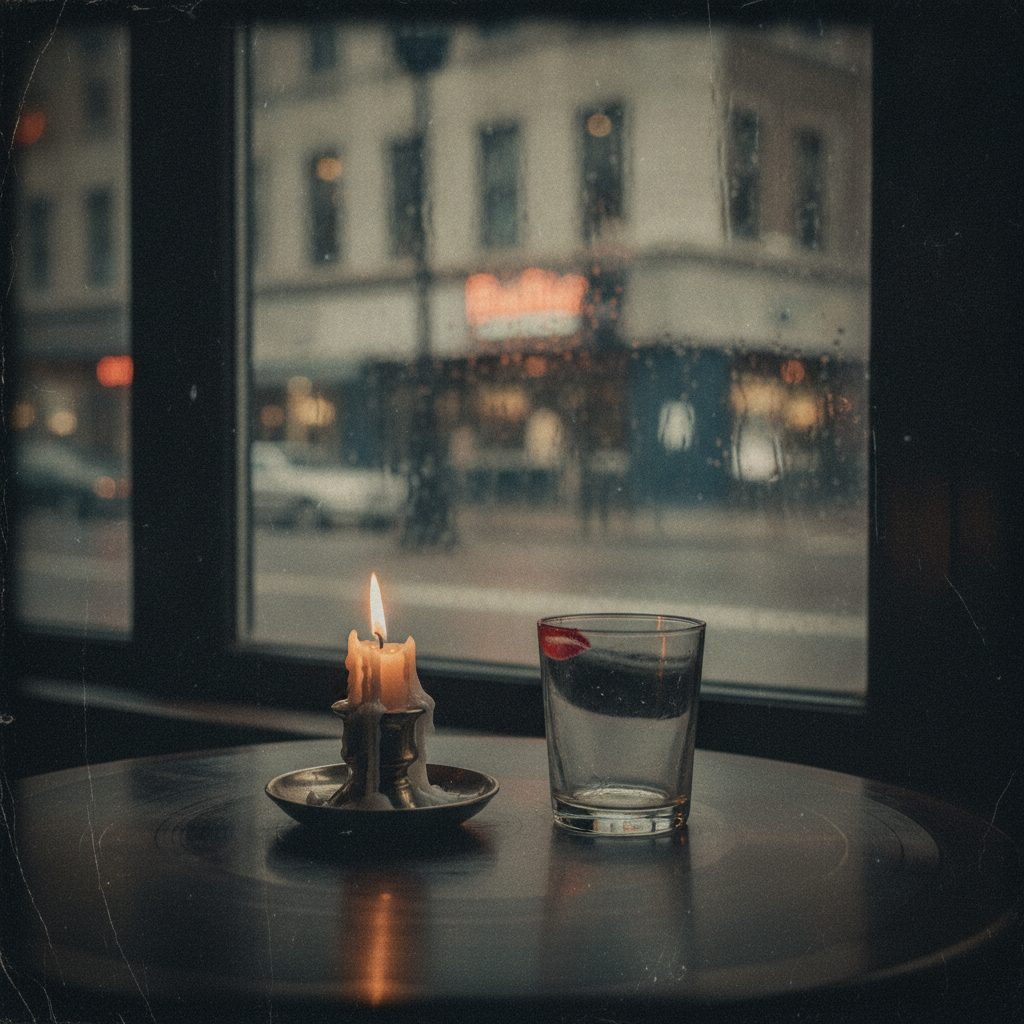
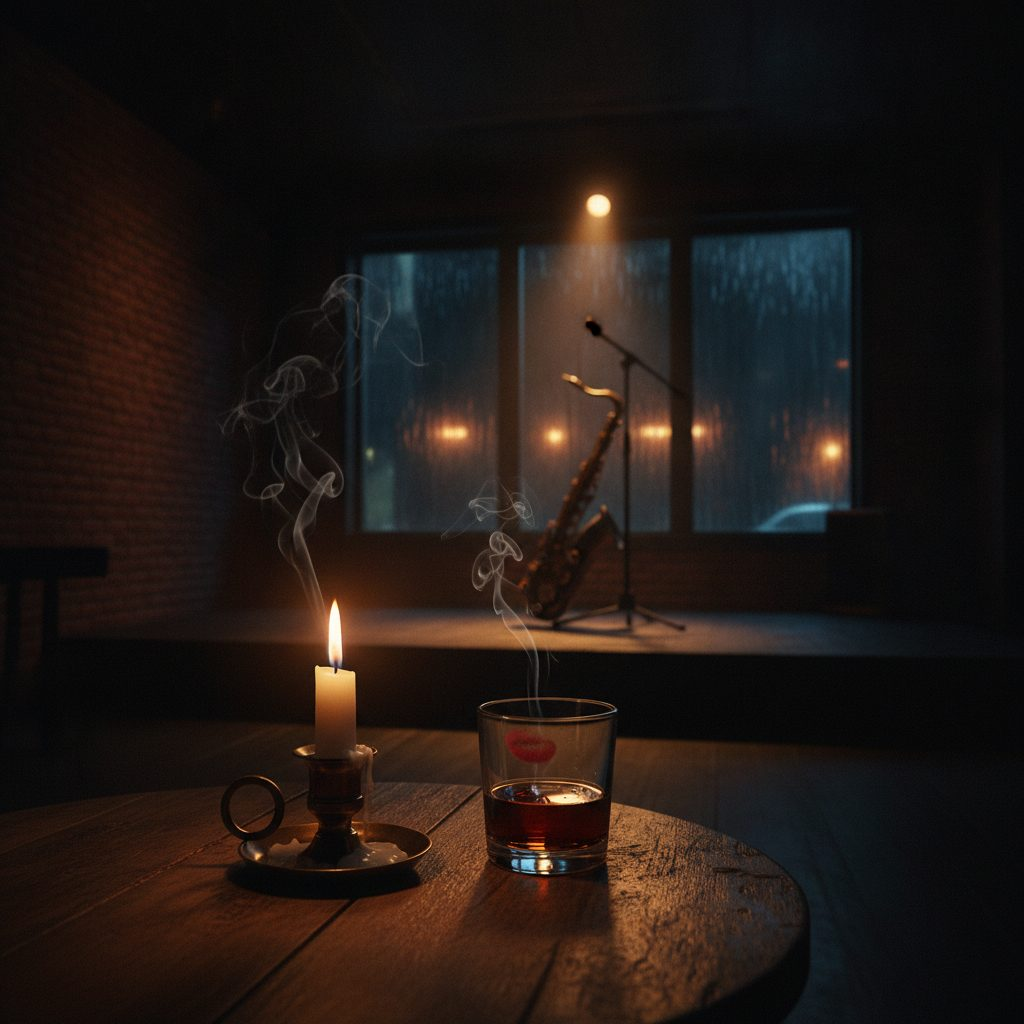
Half Past Blue: a jazz club at night instead of grey paper
The AI set this song in black ink on cream paper, which is right for a
lead sheet and wrong over a dark picture: the paper overlay turned the
photograph grey and the look was fine but flat.

- New picture, from the app's "jazz" background style: a saxophone on an
  empty stage, a candle, a glass, rain on the windows.
- The colours are turned to night by hand - midnight blue page, cream
  words, amber chords - and the overlay eased to 0.4 so the picture
  shows. The fonts and the jazz chord notation are still the AI's.
- Hand changes are now listed per song under `adjust` in
  exampleSources.ts, so it stays plain what the AI did and what it
  didn't. The page copy claims the fonts and the pictures for the AI and
  no longer the colours.
- A retaken card screenshot gets a new filename through `rev`; images
  are cached by address and the old name kept showing the old picture.

diff --git a/apps/chordsheetmaker/src/data/exampleSongs.ts b/apps/chordsheetmaker/src/data/exampleSongs.ts
@@ -4,7 +4,7 @@
 // exampleStyles.json is what /api/ai/style returned for each song, untouched;
 // the picture beside it in /public/examples came from /api/ai/background, in
 // the background style named in the source. Nothing was drawn or picked by
-// hand except that style and, where noted, the overlay. To give a song a new
+// hand except that style and whatever a song lists under `adjust`. To give a song a new
 // look, ask the same two routes again and save what comes back.
 
 import type { SongLine } from "@/types/song";
@@ -15,7 +15,7 @@ import { EXAMPLE_SOURCES, type ExampleSource } from "./exampleSources";
 export { EXAMPLE_SLUGS } from "./exampleSources";
 import styles from "./exampleStyles.json";
 
-export interface ExampleSong extends Omit<ExampleSource, "text" | "bgStyle" | "overlayOpacity"> {
+export interface ExampleSong extends Omit<ExampleSource, "text" | "bgStyle" | "adjust" | "rev"> {
   href: string;
   /** Screenshot of the page at `href`, for the card. */
   img: string;
@@ -36,18 +36,32 @@ function toLines(slug: string, text: string): SongLine[] {
   return extractInlineChords(lines);
 }
 
-export const EXAMPLE_SONGS: ExampleSong[] = EXAMPLE_SOURCES.map(({ text, bgStyle: _bgStyle, overlayOpacity, ...song }) => ({
-  ...song,
-  href: `/examples/${song.slug}`,
-  img: `/examples/${song.slug}.jpg`,
-  lines: toLines(song.slug, text),
-  style: {
-    ...(styles as unknown as Record<string, SongStyle>)[song.slug],
-    backgroundImage: `/examples/${song.slug}-bg.jpg`,
+const PARTS = ["title", "artist", "lyrics", "chords", "section"] as const;
+
+function lookOf(slug: string, adjust: ExampleSource["adjust"]): SongStyle {
+  const ai = (styles as unknown as Record<string, SongStyle>)[slug];
+  const style: SongStyle = {
+    ...ai,
+    backgroundImage: `/examples/${slug}-bg.jpg`,
     backgroundSource: "ai",
     aiStyled: true,
-    overlayOpacity: overlayOpacity ?? 0.5,
-  },
+    overlayOpacity: adjust?.overlayOpacity ?? 0.5,
+  };
+  if (adjust?.background) style.background = adjust.background;
+  for (const part of PARTS) {
+    const color = adjust?.colors?.[part];
+    const base = style[part];
+    if (color && base) style[part] = { ...base, color };
+  }
+  return style;
+}
+
+export const EXAMPLE_SONGS: ExampleSong[] = EXAMPLE_SOURCES.map(({ text, bgStyle: _bgStyle, adjust, rev, ...song }) => ({
+  ...song,
+  href: `/examples/${song.slug}`,
+  img: `/examples/${song.slug}${rev ? `-${rev}` : ""}.jpg`,
+  lines: toLines(song.slug, text),
+  style: lookOf(song.slug, adjust),
 }));
 
 export function exampleBySlug(slug: string): ExampleSong | undefined {

diff --git a/apps/chordsheetmaker/src/data/exampleSources.ts b/apps/chordsheetmaker/src/data/exampleSources.ts
@@ -17,8 +17,23 @@ export interface ExampleSource {
   vibe: string;
   /** Which of the style panel's background styles the picture was made with. */
   bgStyle: string;
-  /** How much of the page colour is laid over the picture, where the default 0.5 left the words hard to read. */
-  overlayOpacity?: number;
+  /**
+   * Add one each time the card's screenshot is retaken: the file is then
+   * <slug>-<rev>.jpg. Images are cached by address, so a new picture under
+   * the old name keeps showing the old one.
+   */
+  rev?: number;
+  /**
+   * What was changed by hand after the AI's look, the way "Adjust" does in
+   * the editor. Leave it out and the song is exactly what the AI returned.
+   */
+  adjust?: {
+    /** Page colour, which is also what is laid over the picture. */
+    background?: string;
+    /** How much of the page colour covers the picture (default 0.5). */
+    overlayOpacity?: number;
+    colors?: Partial<Record<"title" | "artist" | "lyrics" | "chords" | "section", string>>;
+  };
   text: string;
 }
 
@@ -129,9 +144,17 @@ export const EXAMPLE_SOURCES: ExampleSource[] = [
     slug: "half-past-blue",
     title: "Half Past Blue",
     artist: "Jazz ballad · original",
-    vibe: "Rainy bar window, lead-sheet chords",
-    bgStyle: "vintage",
-    overlayOpacity: 0.7,
+    vibe: "Late-night jazz club, lead-sheet chords",
+    bgStyle: "jazz",
+    rev: 2,
+    // The AI set this one in black ink on cream paper, which over a dark
+    // picture went grey. The fonts, the jazz chords and the picture are its
+    // own; the colours were turned to night by hand.
+    adjust: {
+      background: "#0b1424",
+      overlayOpacity: 0.4,
+      colors: { title: "#f6e7c4", artist: "#9fb4cf", lyrics: "#ece6d8", chords: "#f3b562", section: "#7f9cc4" },
+    },
     text: `
 # Intro
 [Fmaj7]          [Dm7]          [Gm7]          [C7]

diff --git a/apps/chordsheetmaker/src/components/ui/ExamplesSection.tsx b/apps/chordsheetmaker/src/components/ui/ExamplesSection.tsx
@@ -9,7 +9,7 @@ import { EXAMPLE_SONGS } from "@/data/exampleSongs";
 // The previews are real screenshots of those pages, not mock-ups. Retake them
 // whenever a song's look or the viewer's design changes: load
 // /examples/<slug> at 860x592, 2x, hide the viewer's top and bottom bars, and
-// save as /public/examples/<slug>.jpg.
+// save it under a new name by raising the song's `rev` in exampleSources.ts.
 
 /** The three cards on their own, for pages that bring their own heading. */
 export function ExampleCards() {
@@ -65,8 +65,8 @@ export default function ExamplesSection() {
             <h2 className="font-display font-medium text-4xl sm:text-5xl tracking-[-0.02em] text-ink text-balance">Your sheets can look like this</h2>
           </div>
           <p className="text-lg text-stone-600 leading-relaxed lg:pb-1.5">
-            Three original songs. For each, the AI read the lyrics, chose the fonts and colours,
-            and made the picture behind them. Open one and press{" "}
+            Three original songs. For each, the AI read the lyrics, chose the fonts and made the
+            picture behind them. Open one and press{" "}
             <strong className="font-semibold text-ink">play</strong> to feel the auto-scroll.
           </p>
         </div>

diff --git a/apps/chordsheetmaker/src/app/[slug]/page.tsx b/apps/chordsheetmaker/src/app/[slug]/page.tsx
@@ -143,7 +143,7 @@ export default async function LandingPage({ params }: Props) {
             <Eyebrow className="mb-4">Examples</Eyebrow>
             <h2 className={`${H2} mb-3`}>See what you can create</h2>
             <p className="text-lg text-stone-600 mb-10 sm:mb-14 max-w-xl leading-relaxed">
-              Original songs set with ChordSheetMaker. The AI chose the fonts and colours and made the pictures behind them. Open one and press play.
+              Original songs set with ChordSheetMaker. The AI chose the fonts and made the pictures behind them. Open one and press play.
             </p>
             <ExampleCards />
           </div>

diff --git a/docs/status.md b/docs/status.md
@@ -157,7 +157,7 @@ First look at GA4's own funnel rather than the activity log, for the 28 days to
 | **A key change in play mode is not saved** (14 Nov 2026) | Play mode has its own − Key + control: the singer needs it a tone down tonight. It is a shift for that play-through, on top of the key the song is saved in, and it carries into a PDF made from there so paper matches screen. Saving it would mean a viewer — or anyone with a share link — editing the song. The song's own key is still set in the editor. |
 | **Touch devices get their controls shown, not hidden behind hover** (14 Nov 2026) | Rename, add-subcategory and delete in the sidebar, the ▲▼ reorder pill and the ⋯ menu on song rows are keyed on `pointer-coarse` / `pointer-fine`, not on screen width. Width was the wrong question: a large tablet is wide and cannot hover or drag. Deleting a category that holds songs or subcategories now asks first; an empty one still goes at once. |
 | **The demo song arrives styled, and "Style it" is one button** (14 Nov 2026) | In the 30 days before, 71% of songs were made by guests and signed-in users generated no AI backgrounds at all: the feature sat on two tabs of a side panel and the demo everyone lands on was black type on white. The demo now wears what the AI made of its own lyrics — fonts and colours hard-coded in `DEMO_STYLE`, the picture bundled as `public/demo-background.jpg`, so showing it costs no AI call. The toolbar's **Style it** asks for text style and background together, reports in the banner strip, and can be undone. It works for guests; their picture lasts the session, which the strip says. A bundled picture is a site path rather than a data URL, and `encodeSong` and the guest save keep those (`isEmbeddedImage`). Importing over the demo resets the style, so nobody's own song inherits the demo's road at dawn. Measure with GA `style_it` and the activity log's `via: toolbar`. A second pass the same day: the offer strip is made **per song and to guests too** (closed songs in localStorage `lookOfferClosed`), and takes priority over the guest save reminder until it is settled; the type lands as soon as it is ready (a few seconds) with the picture following (about twenty); the result has **Try another**, and Undo always goes back to before any of it; **guests keep their picture** in localStorage when there is room (`saveSongWithPicture`, falling back to saving without it), restored by the editor and the view page; and the style panel offers the whole look from both tabs, with each tab's own AI button demoted to an outline. Where a run started is logged (`via`: toolbar, offer, panel, again). Still not done: logging what guests generate. |
-| **The example songs are originals, kept in the repository** (14 Nov 2026) | The start page, the hero and the keyword pages showed real songs by real artists, with their lyrics, served from three rows in the production shares table. They are now three songs written for the site (`src/data/exampleSources.ts`), served statically at `/examples/<slug>`, so there are no third-party lyrics on the marketing pages and the examples are the same in dev and production. Each look is what the app's own AI routes returned (`exampleStyles.json`, pictures in `public/examples`); only the background style, and the overlay on one, were chosen by hand. The card and hero images are screenshots and go stale when the viewer's design changes: the recipe is in `ExamplesSection.tsx` and `HeroDemo.tsx`. The old share rows still exist in production and still open by URL; nothing links to them. |
+| **The example songs are originals, kept in the repository** (14 Nov 2026) | The start page, the hero and the keyword pages showed real songs by real artists, with their lyrics, served from three rows in the production shares table. They are now three songs written for the site (`src/data/exampleSources.ts`), served statically at `/examples/<slug>`, so there are no third-party lyrics on the marketing pages and the examples are the same in dev and production. Each look is what the app's own AI routes returned (`exampleStyles.json`, pictures in `public/examples`); only the background style for each, and the colours and overlay of Half Past Blue (the AI's cream paper went grey over a dark picture), were chosen by hand, which is why the page copy claims the fonts and pictures for the AI and not the colours. The card and hero images are screenshots and go stale when the viewer's design changes: the recipe is in `ExamplesSection.tsx` and `HeroDemo.tsx`. The old share rows still exist in production and still open by URL; nothing links to them. |
 | **Share links are detached snapshots** | A link keeps working after the song changes — but there's no owner recorded, so shares can't be listed or revoked. Adding `userId` would fix that. |
 | **RecipeBookMaker prices in USD** (Aug 2026) | Matches ChordSheetMaker, which also settles in SEK behind the scenes. A price's currency is fixed once created in Stripe, so this is not a decision that can be revisited cheaply. |
 | **The trial "ending" email ignores marketing opt-out** (Aug 2026) | It states a date and an amount for a subscription someone entered into, which makes it a service message, not a pitch. It carries no unsubscribe link for the same reason. The tips email is marketing and obeys the opt-out normally. |
